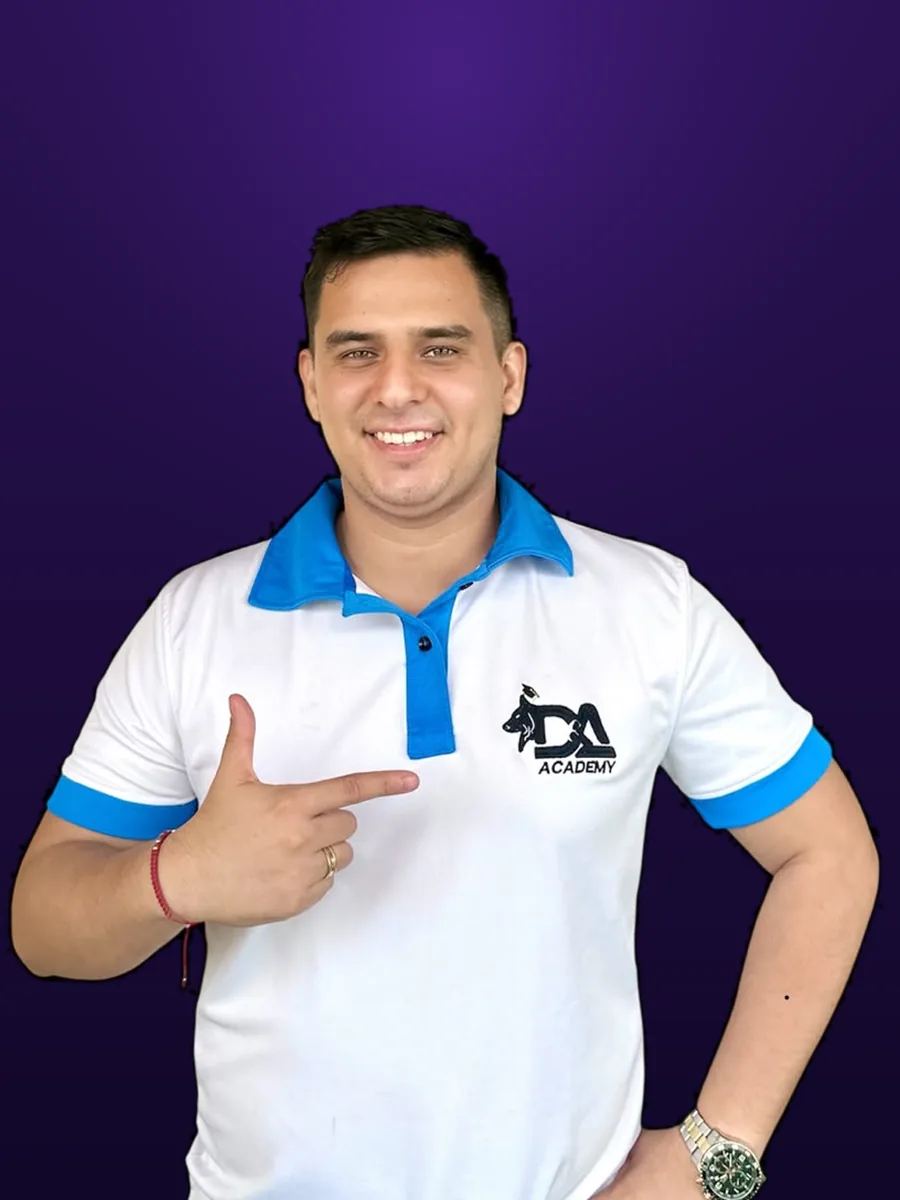
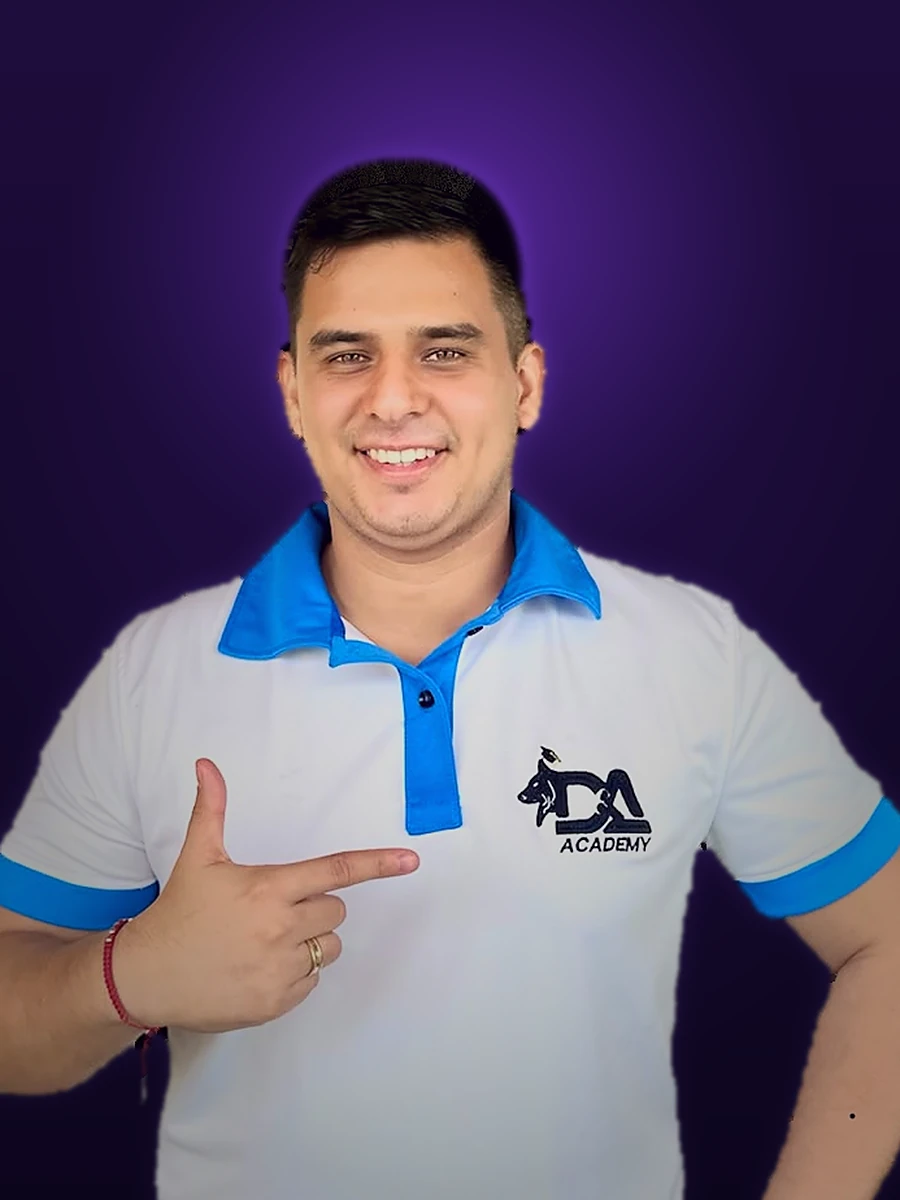
update: cambios del sitio Labs Summit

diff --git a/speakers.html b/speakers.html
@@ -39,7 +39,7 @@ s.parentNode.insertBefore(t,s)}(window, document,'script','https://connect.faceb
 fbq('init', '481397476029941');
 fbq('track', 'PageView');
 </script>
-<script type="application/ld+json">{"@context": "https://schema.org", "@type": "Event", "name": "Labs Summit 2026 · Día de conferencias", "startDate": "2026-10-29", "endDate": "2026-10-29", "eventStatus": "https://schema.org/EventScheduled", "eventAttendanceMode": "https://schema.org/OfflineEventAttendanceMode", "location": {"@type": "Place", "name": "Coliseo de Ferias Manuel Victoria Rojas", "address": {"@type": "PostalAddress", "addressLocality": "Tuluá", "addressRegion": "Valle del Cauca", "addressCountry": "CO"}}, "image": "https://labssummit.com/bannerInferior/speakers-og.jpg", "url": "https://labssummit.com/speakers", "organizer": {"@type": "Organization", "name": "Labs Summit", "url": "https://labssummit.com"}, "performer": [{"@type": "Person", "name": "Juan David Carmona", "jobTitle": "Cofundador · Grupo Effi", "image": "https://labssummit.com/speakers/opt/juan-david-carmona-900.webp"}, {"@type": "Person", "name": "Sara Montoya", "jobTitle": "Cofundadora · Grupo Effi", "image": "https://labssummit.com/speakers/opt/sara-montoya-900.webp"}, {"@type": "Person", "name": "Jose Aguirre", "jobTitle": "Fundador · TechnoLabs", "image": "https://labssummit.com/speakers/opt/jose-aguirre-900.webp"}, {"@type": "Person", "name": "Laura Aguirre", "jobTitle": "Emprendedora · Tech & Ventures", "image": "https://labssummit.com/speakers/opt/laura-aguirre-900.webp"}, {"@type": "Person", "name": "Juan Camilo Silva", "jobTitle": "Cofundador · Lucid Bot", "image": "https://labssummit.com/speakers/opt/juan-camilo-silva-900.webp"}, {"@type": "Person", "name": "Camila Rodríguez", "jobTitle": "Abogada · Prop. Intelectual", "image": "https://labssummit.com/speakers/opt/camila-rodriguez-900.webp"}, {"@type": "Person", "name": "Melisa Parra", "jobTitle": "Alianzas & Eventos · Tiendanube", "image": "https://labssummit.com/speakers/opt/melisa-parra-900.webp"}, {"@type": "Person", "name": "Miguel Buitrago", "jobTitle": "Máster PNL · Ventas Online", "image": "https://labssummit.com/speakers/opt/miguel-buitrago-900.webp"}, {"@type": "Person", "name": "Juan Vargas", "jobTitle": "Cofundador · Dropkiller", "image": "https://labssummit.com/speakers/opt/juan-vargas-900.webp"}, {"@type": "Person", "name": "Kenny Barrios Jure", "jobTitle": "Partner Empresarial · @kennypartner", "image": "https://labssummit.com/speakers/opt/kenny-barrios-jure-900.webp"}, {"@type": "Person", "name": "Faider Altamar", "jobTitle": "CEO · Negocios Digitales", "image": "https://labssummit.com/speakers/opt/faider-altamar-900.webp"}, {"@type": "Person", "name": "Mike Munzvil", "jobTitle": "Estrategia · IA · eCommerce", "image": "https://labssummit.com/speakers/opt/mike-munzvil-900.webp"}, {"@type": "Person", "name": "Cristóbal Verasaluse", "jobTitle": "Hotmart Black · Club de Resultados", "image": "https://labssummit.com/speakers/opt/cristobal-verasaluse-900.webp"}, {"@type": "Person", "name": "Mateo Costa", "jobTitle": "CEO · ConvertMate", "image": "https://labssummit.com/speakers/opt/mateo-costa-900.webp"}, {"@type": "Person", "name": "María José Echeverri", "jobTitle": "Fundadora · Colombia Tech Week", "image": "https://labssummit.com/speakers/opt/maria-jose-echeverri-900.webp"}, {"@type": "Person", "name": "Víctor Heras", "jobTitle": "Fundador · HerasMedia", "image": "https://labssummit.com/speakers/opt/victor-heras-900.webp"}, {"@type": "Person", "name": "Teo Giraldo", "jobTitle": "Fundador · Make Online Money", "image": "https://labssummit.com/speakers/opt/teo-giraldo-900.webp"}, {"@type": "Person", "name": "Juan Martinez", "jobTitle": "Fundador · Prosox", "image": "https://labssummit.com/speakers/opt/juan-martinez-900.webp"}, {"@type": "Person", "name": "Julián Lago", "jobTitle": "Senior Regional GM · Rappi", "image": "https://labssummit.com/speakers/opt/julian-lago-900.webp"}, {"@type": "Person", "name": "Diego Patarroyo", "jobTitle": "Co-fundador · D&A Grupo Empresarial", "image": "https://labssummit.com/speakers/opt/diego-patarroyo-900.webp"}, {"@type": "Person", "name": "Andrés Patarroyo", "jobTitle": "Co-fundador · D&A Grupo Empresarial", "image": "https://labssummit.com/speakers/opt/andres-patarroyo-900.webp"}, {"@type": "Person", "name": "Mateo Vera", "jobTitle": "CEO · FEM Probiotics", "image": "https://labssummit.com/speakers/opt/mateo-vera-900.webp"}, {"@type": "Person", "name": "Alejandro Vela", "jobTitle": "Emprendedor · +30.000 clientes", "image": "https://labssummit.com/speakers/opt/alejandro-vela-900.webp"}]}</script>
+<script type="application/ld+json">{"@context": "https://schema.org", "@type": "Event", "name": "Labs Summit 2026 · Día de conferencias", "startDate": "2026-10-29", "endDate": "2026-10-29", "eventStatus": "https://schema.org/EventScheduled", "eventAttendanceMode": "https://schema.org/OfflineEventAttendanceMode", "location": {"@type": "Place", "name": "Coliseo de Ferias Manuel Victoria Rojas", "address": {"@type": "PostalAddress", "addressLocality": "Tuluá", "addressRegion": "Valle del Cauca", "addressCountry": "CO"}}, "image": "https://labssummit.com/bannerInferior/speakers-og.jpg", "url": "https://labssummit.com/speakers", "organizer": {"@type": "Organization", "name": "Labs Summit", "url": "https://labssummit.com"}, "performer": [{"@type": "Person", "name": "Juan David Carmona", "jobTitle": "Cofundador · Grupo Effi", "image": "https://labssummit.com/speakers/opt/juan-david-carmona-900.webp"}, {"@type": "Person", "name": "Sara Montoya", "jobTitle": "Cofundadora · Grupo Effi", "image": "https://labssummit.com/speakers/opt/sara-montoya-900.webp"}, {"@type": "Person", "name": "Jose Aguirre", "jobTitle": "Fundador · TechnoLabs", "image": "https://labssummit.com/speakers/opt/jose-aguirre-900.webp"}, {"@type": "Person", "name": "Laura Aguirre", "jobTitle": "Emprendedora · Tech & Ventures", "image": "https://labssummit.com/speakers/opt/laura-aguirre-900.webp"}, {"@type": "Person", "name": "Juan Camilo Silva", "jobTitle": "Cofundador · Lucid Bot", "image": "https://labssummit.com/speakers/opt/juan-camilo-silva-900.webp"}, {"@type": "Person", "name": "Camila Rodríguez", "jobTitle": "Abogada · Prop. Intelectual", "image": "https://labssummit.com/speakers/opt/camila-rodriguez-900.webp"}, {"@type": "Person", "name": "Melisa Parra", "jobTitle": "Alianzas & Eventos · Tiendanube", "image": "https://labssummit.com/speakers/opt/melisa-parra-900.webp"}, {"@type": "Person", "name": "Miguel Buitrago", "jobTitle": "Máster PNL · Ventas Online", "image": "https://labssummit.com/speakers/opt/miguel-buitrago-900.webp"}, {"@type": "Person", "name": "Juan Vargas", "jobTitle": "Cofundador · Dropkiller", "image": "https://labssummit.com/speakers/opt/juan-vargas-900.webp"}, {"@type": "Person", "name": "Kenny Barrios Jure", "jobTitle": "Partner Empresarial · @kennypartner", "image": "https://labssummit.com/speakers/opt/kenny-barrios-jure-900.webp"}, {"@type": "Person", "name": "Faider Altamar", "jobTitle": "CEO · Negocios Digitales", "image": "https://labssummit.com/speakers/opt/faider-altamar-900.webp"}, {"@type": "Person", "name": "Mike Munzvil", "jobTitle": "Estrategia · IA · eCommerce", "image": "https://labssummit.com/speakers/opt/mike-munzvil-900.webp"}, {"@type": "Person", "name": "Cristóbal Verasaluse", "jobTitle": "Hotmart Black · Club de Resultados", "image": "https://labssummit.com/speakers/opt/cristobal-verasaluse-900.webp"}, {"@type": "Person", "name": "Mateo Costa", "jobTitle": "CEO · ConvertMate", "image": "https://labssummit.com/speakers/opt/mateo-costa-900.webp"}, {"@type": "Person", "name": "María José Echeverri", "jobTitle": "Fundadora · Colombia Tech Week", "image": "https://labssummit.com/speakers/opt/maria-jose-echeverri-900.webp"}, {"@type": "Person", "name": "Víctor Heras", "jobTitle": "Fundador · HerasMedia", "image": "https://labssummit.com/speakers/opt/victor-heras-900.webp"}, {"@type": "Person", "name": "Teo Giraldo", "jobTitle": "Fundador · Make Online Money", "image": "https://labssummit.com/speakers/opt/teo-giraldo-900.webp"}, {"@type": "Person", "name": "Juan Martinez", "jobTitle": "Fundador · Prosox", "image": "https://labssummit.com/speakers/opt/juan-martinez-900.webp"}, {"@type": "Person", "name": "Julián Lago", "jobTitle": "Senior Regional GM · Rappi", "image": "https://labssummit.com/speakers/opt/julian-lago-900.webp"}, {"@type": "Person", "name": "Diego Patarroyo", "jobTitle": "Co-fundador · D&A Grupo Empresarial", "image": "https://labssummit.com/speakers/opt/diego-patarroyo-900.webp?v=6"}, {"@type": "Person", "name": "Andrés Patarroyo", "jobTitle": "Co-fundador · D&A Grupo Empresarial", "image": "https://labssummit.com/speakers/opt/andres-patarroyo-900.webp?v=6"}, {"@type": "Person", "name": "Mateo Vera", "jobTitle": "CEO · FEM Probiotics", "image": "https://labssummit.com/speakers/opt/mateo-vera-900.webp"}, {"@type": "Person", "name": "Alejandro Vela", "jobTitle": "Emprendedor · +30.000 clientes", "image": "https://labssummit.com/speakers/opt/alejandro-vela-900.webp"}]}</script>
 <style>
 :root{
   --fondo:#07020F;--panel:#0F0620;--panel2:#160A2C;--texto:#F4EEFF;--suave:#C9AEFF;--tenue:rgba(201,174,255,.62);
@@ -570,7 +570,7 @@ footer a{color:rgba(201,174,255,.8)}
       </li>
       <li class="card" style="--i:3" data-slug="diego-patarroyo" data-grupos="marketing tech" data-busca="diego patarroyo co-fundador  d&amp;a grupo empresarial web &amp; seo seo desarrollo web formacion">
         <button class="card-btn" type="button" data-abrir="19" aria-label="Ver el perfil de Diego Patarroyo">
-          <span class="card-foto"><picture><source type="image/webp" srcset="/speakers/opt/diego-patarroyo-480.webp 480w, /speakers/opt/diego-patarroyo-900.webp 900w" sizes="(max-width: 760px) 46vw, (max-width: 1100px) 31vw, 290px"><img class="card-img" src="/speakers/opt/diego-patarroyo.jpg" alt="" width="480" height="640" loading="lazy" decoding="async"></picture></span>
+          <span class="card-foto"><picture><source type="image/webp" srcset="/speakers/opt/diego-patarroyo-480.webp?v=6 480w, /speakers/opt/diego-patarroyo-900.webp?v=6 900w" sizes="(max-width: 760px) 46vw, (max-width: 1100px) 31vw, 290px"><img class="card-img" src="/speakers/opt/diego-patarroyo.jpg?v=6" alt="" width="480" height="640" loading="lazy" decoding="async"></picture></span>
           <span class="card-sombra" aria-hidden="true"></span>
           <span class="card-tag"><span aria-hidden="true">💻</span>Web &amp; SEO</span>
           <span class="card-ls" aria-hidden="true">LS</span>
@@ -584,7 +584,7 @@ footer a{color:rgba(201,174,255,.8)}
       </li>
       <li class="card" style="--i:4" data-slug="andres-patarroyo" data-grupos="ecommerce marketing" data-busca="andres patarroyo co-fundador  d&amp;a grupo empresarial meta ads &amp; ecommerce meta ads ecommerce analitica">
         <button class="card-btn" type="button" data-abrir="20" aria-label="Ver el perfil de Andrés Patarroyo">
-          <span class="card-foto"><picture><source type="image/webp" srcset="/speakers/opt/andres-patarroyo-480.webp 480w, /speakers/opt/andres-patarroyo-900.webp 900w" sizes="(max-width: 760px) 46vw, (max-width: 1100px) 31vw, 290px"><img class="card-img" src="/speakers/opt/andres-patarroyo.jpg" alt="" width="480" height="640" loading="lazy" decoding="async"></picture></span>
+          <span class="card-foto"><picture><source type="image/webp" srcset="/speakers/opt/andres-patarroyo-480.webp?v=6 480w, /speakers/opt/andres-patarroyo-900.webp?v=6 900w" sizes="(max-width: 760px) 46vw, (max-width: 1100px) 31vw, 290px"><img class="card-img" src="/speakers/opt/andres-patarroyo.jpg?v=6" alt="" width="480" height="640" loading="lazy" decoding="async"></picture></span>
           <span class="card-sombra" aria-hidden="true"></span>
           <span class="card-tag"><span aria-hidden="true">📈</span>Meta Ads &amp; eCommerce</span>
           <span class="card-ls" aria-hidden="true">LS</span>
@@ -683,7 +683,7 @@ footer a{color:rgba(201,174,255,.8)}
 </div>
 <div class="aviso" id="aviso" role="status"></div>
 
-<script type="application/json" id="datos-speakers">[{"slug": "juan-david-carmona", "nombre": "Juan David Carmona", "nombreLargo": "Juan David Carmona", "rol": "Cofundador · Grupo Effi", "cat": "Ecommerce", "emoji": "🛒", "bio": "Cofundador de @grupoeffi, fundador de la @feriaeffix y referente digital colombiano que ha construido una comunidad sólida desde la autenticidad, conectando con millones a través de historias reales y experiencias de vida.", "temas": ["Ecommerce", "IA Aplicada", "Escala Digital"], "fb": "/speakers/opt/juan-david-carmona.png"}, {"slug": "sara-montoya", "nombre": "Sara Montoya", "nombreLargo": "Sara Montoya", "rol": "Cofundadora · Grupo Effi", "cat": "Marketing Digital", "emoji": "📱", "bio": "Cofundadora de @grupoeffi, fundadora de @feriaeffix y referente digital que ha construido una comunidad desde la autenticidad, compartiendo su estilo de vida y una visión cercana de lo que significa crecer en el mundo digital.", "temas": ["Marketing Digital", "Marca Personal", "Comunidad"], "fb": "/speakers/opt/sara-montoya.png"}, {"slug": "jose-aguirre", "nombre": "Jose Aguirre", "nombreLargo": "Jose Aguirre", "rol": "Fundador · TechnoLabs", "cat": "Emprendimiento", "emoji": "🚀", "bio": "Fundador de @technolabs, @labssummit y @mastercommerce. Emprendedor digital y creador de contenido que ha inspirado a miles de personas a construir oportunidades reales a través del mundo digital.", "temas": ["Ventas Digitales", "Automatización", "IA Comercial"], "fb": "/speakers/opt/jose-aguirre.png"}, {"slug": "laura-aguirre", "nombre": "Laura Aguirre", "nombreLargo": "Laura Aguirre", "rol": "Emprendedora · Tech & Ventures", "cat": "Tech & Ventures", "emoji": "💡", "bio": "Emprendedora del ecosistema tech colombiano, con trayectoria en el desarrollo de negocios digitales y comunidades de innovación.", "temas": ["Emprendimiento", "Ecosistema Tech"], "fb": "/speakers/opt/laura-aguirre.png"}, {"slug": "juan-camilo-silva", "nombre": "Juan Camilo Silva", "nombreLargo": "Juan Camilo Silva", "rol": "Cofundador · Lucid Bot", "cat": "IA & Ventas", "emoji": "🤖", "bio": "Cofundador de Lucid Bot, especialista en ventas conversacionales para ecommerce. Automatiza ventas, atención y seguimiento con agentes de IA en WhatsApp, Instagram, Facebook, TikTok y Webchat.", "temas": ["IA", "Ventas Conversacionales", "E-commerce"], "fb": "/speakers/opt/juan-camilo-silva.png"}, {"slug": "camila-rodriguez", "nombre": "Camila Rodríguez", "nombreLargo": "Camila Rodríguez", "rol": "Abogada · Prop. Intelectual", "cat": "Legal & Negocios", "emoji": "⚖", "bio": "Abogada con +7 años en propiedad intelectual y derecho empresarial. Directora de su propio despacho, ha asesorado a +100 marcas. COO en promotora de música electrónica y conferencista en PI y negocios digitales.", "temas": ["Propiedad Intelectual", "Derecho Empresarial", "Marcas"], "fb": "/speakers/opt/camila-rodriguez.png"}, {"slug": "melisa-parra", "nombre": "Melisa Parra", "nombreLargo": "Melisa Parra", "rol": "Alianzas & Eventos · Tiendanube", "cat": "eCommerce", "emoji": "🛍", "bio": "+7 años en el ecosistema emprendedor latinoamericano, experta en eCommerce, marketing digital y construcción de marca. Lidera alianzas y eventos de Tiendanube en Colombia y Chile, una de las plataformas de eCommerce más grandes de LATAM.", "temas": ["eCommerce", "Marketing Digital", "Tiendanube"], "fb": "/speakers/opt/melisa-parra.png"}, {"slug": "miguel-buitrago", "nombre": "Miguel Buitrago", "nombreLargo": "Miguel Buitrago", "rol": "Máster PNL · Ventas Online", "cat": "Mentalidad", "emoji": "🧠", "bio": "Estratega de venta directa online, Máster en PNL y creador de una empresa de +7 cifras al año, impactando a más de 20.000 alumnos. Entiende cómo la mentalidad, las decisiones y la programación mental impulsan directamente el crecimiento de un negocio.", "temas": ["Mentalidad", "Neurolingüística", "Ventas Online"], "fb": "/speakers/opt/miguel-buitrago.png"}, {"slug": "juan-vargas", "nombre": "Juan Vargas", "nombreLargo": "Juan Vargas", "rol": "Cofundador · Dropkiller", "cat": "Dropshipping", "emoji": "📦", "bio": "Emprendedor de 22 años, cofundador de Dropkiller, la plataforma líder de investigación de productos para dropshippers en LATAM. +$2M USD facturados con sus tiendas online y cientos de personas iniciadas en la venta de productos físicos.", "temas": ["Dropshipping", "E-commerce", "LATAM"], "fb": "/speakers/opt/juan-vargas.png"}, {"slug": "kenny-barrios-jure", "nombre": "Kenny Barrios Jure", "nombreLargo": "Kenny Barrios Jure", "rol": "Partner Empresarial · @kennypartner", "cat": "Partner Digital", "emoji": "🤝", "bio": "Fundador de Kenny&Co SAS. 12 años como empresario, 9 en estrategia digital y +$1.6M USD facturados. Factura $20K–$30K USD/mes con +80% de rentabilidad, sin empleados en nómina. Meta Business Partner certificado, acompaña a +390 partners activos. Su filosofía: \"Primero práctico, luego replico.\"", "temas": ["Partner Digital", "Marketing en Redes", "Negocios LATAM"], "fb": "/speakers/opt/kenny-barrios-jure.jpg"}, {"slug": "faider-altamar", "nombre": "Faider Altamar", "nombreLargo": "Faider Altamar", "rol": "CEO · Negocios Digitales", "cat": "IA & Ecommerce", "emoji": "🤖", "bio": "Mentor en negocios digitales, Ecommerce, SaaS e IA. CEO de proyectos escalables y creador de comunidades de crecimiento.", "temas": ["Ecommerce", "SaaS", "IA"], "fb": "/speakers/opt/faider-altamar.png"}, {"slug": "mike-munzvil", "nombre": "Mike Munzvil", "nombreLargo": "Mike Munzvil", "rol": "Estrategia · IA · eCommerce", "cat": "Negocios Digitales", "emoji": "🚀", "bio": "Referente en negocios digitales en Latinoamérica. Experto en estrategias de crecimiento, Inteligencia Artificial y eCommerce.", "temas": ["IA", "eCommerce", "Crecimiento"], "fb": "/speakers/opt/mike-munzvil.png"}, {"slug": "cristobal-verasaluse", "nombre": "Cristóbal Verasaluse", "nombreLargo": "Cristóbal Verasaluse", "rol": "Hotmart Black · Club de Resultados", "cat": "Resultados", "emoji": "📚", "bio": "Formador de alto impacto, Hotmart Black con +$500K USD facturados y más de 1.700 libros leídos. Ha impactado a +100.000 personas ayudándolas a pasar de consumir información sin propósito a generar resultados transformadores.", "temas": ["Aprendizaje Aplicado", "Resultados", "Hotmart"], "fb": "/speakers/opt/cristobal-verasaluse.png"}, {"slug": "mateo-costa", "nombre": "Mateo Costa", "nombreLargo": "Mateo Costa", "rol": "CEO · ConvertMate", "cat": "CRO & Conversión", "emoji": "📈", "bio": "CEO de ConvertMate, la agencia de optimización de conversiones (CRO) #1 para marcas DTC en LATAM. Convierte visitas ya pagadas en más ventas sin invertir en pauta adicional. +100 marcas, 137 proyectos y +40M USD desbloqueados en LATAM, USA y EU.", "temas": ["CRO", "Ecommerce DTC", "Conversiones"], "fb": "/speakers/opt/mateo-costa.png"}, {"slug": "maria-jose-echeverri", "nombre": "María José Echeverri", "nombreLargo": "María José Echeverri", "rol": "Fundadora · Colombia Tech Week", "cat": "Tech & Innovación", "emoji": "⚖", "bio": "Abogada especialista en innovación y ecosistemas emprendedores en LATAM. Fundadora de Colombia Tech Week, Tech Fest, AI Summit y Latam at Silicon Valley. Referente en articulación público-privada y atracción de inversión internacional para el sector tech.", "temas": ["Innovación", "Ecosistemas Tech", "Inversión"], "fb": "/speakers/opt/maria-jose-echeverri.png"}, {"slug": "victor-heras", "nombre": "Víctor Heras", "nombreLargo": "Víctor Heras", "rol": "Fundador · HerasMedia", "cat": "Marca Personal", "emoji": "🚀", "bio": "Fundador de HerasMedia y Personal Branding University. Experto en crecimiento orgánico en redes sociales: lleva cuentas de 0 a 1M de seguidores. +7M EUR generados para sus clientes, +1B de vistas y más de 1.000 emprendedores formados en el mundo hispanohablante.", "temas": ["Marca Personal", "Crecimiento Orgánico", "Redes Sociales"], "fb": "/speakers/opt/victor-heras.png"}, {"slug": "teo-giraldo", "nombre": "Teo Giraldo", "nombreLargo": "Teo Giraldo", "rol": "Fundador · Make Online Money", "cat": "eCommerce", "emoji": "🛒", "bio": "Fundador de Make Online Money y creador de contenido sobre eCommerce y dropshipping. Ha construido una comunidad de +2.000 miembros donde enseña a crear y escalar negocios digitales. Comparte estrategias prácticas en YouTube basadas en su experiencia real, con foco en el entrenamiento mental para construir a largo plazo.", "temas": ["Dropshipping", "eCommerce", "Mentalidad"], "fb": "/speakers/opt/teo-giraldo.png"}, {"slug": "juan-martinez", "nombre": "Juan Martinez", "nombreLargo": "Juan Martinez", "rol": "Fundador · Prosox", "cat": "eCommerce & Marca", "emoji": "⚽", "bio": "6 años en ecommerce. Fundador de Prosox, la marca más grande relacionada con el fútbol en Colombia. Empezó con $60 USD y facturó aprox. $5M USD en LATAM el año pasado. Primer y único ecommerce en patrocinar un equipo de fútbol profesional en Colombia.", "temas": ["eCommerce", "Marca Deportiva", "Escala"], "fb": "/speakers/opt/juan-martinez.png"}, {"slug": "julian-lago", "nombre": "Julián Lago", "nombreLargo": "Julián Lago", "rol": "Senior Regional GM · Rappi", "cat": "Tech & Consumo", "emoji": "🛵", "bio": "Senior Regional General Manager de Rappi para el suroccidente de Colombia y Norte de Santander. +11 años en tecnología y consumo masivo liderando equipos y operaciones en LATAM. Ha trabajado con Honor, Marlboro, IQOS y Rappi. Ingeniero Industrial (ICESI) y MBA (Universidad de los Andes).", "temas": ["Tech", "Operaciones", "LATAM"], "fb": "/speakers/opt/julian-lago.jpg"}, {"slug": "diego-patarroyo", "nombre": "Diego Patarroyo", "nombreLargo": "Diego M. Patarroyo", "rol": "Co-fundador · D&A Grupo Empresarial", "cat": "Web & SEO", "emoji": "💻", "bio": "Ingeniero Electrónico y candidato a Magíster en Administración de Empresas (VIU). Co-fundador de D&A Grupo Empresarial y especialista en desarrollo web y SEO. Ha formado a miles de estudiantes en la creación de sitios web y plataformas de alta conversión.", "temas": ["SEO", "Desarrollo Web", "Formación"], "fb": "/speakers/opt/diego-patarroyo.jpg"}, {"slug": "andres-patarroyo", "nombre": "Andrés Patarroyo", "nombreLargo": "Andrés F. Patarroyo", "rol": "Co-fundador · D&A Grupo Empresarial", "cat": "Meta Ads & eCommerce", "emoji": "📈", "bio": "Ingeniero Civil y candidato a Magíster en Marketing Digital y Analítica Web (VIU). Co-fundador de D&A Grupo Empresarial y especialista en Meta Ads y E-commerce. Ha ayudado a miles de estudiantes a superar $900 millones en facturación acumulada.", "temas": ["Meta Ads", "eCommerce", "Analítica"], "fb": "/speakers/opt/andres-patarroyo.jpg"}, {"slug": "mateo-vera", "nombre": "Mateo Vera", "nombreLargo": "Mateo Vera", "rol": "CEO · FEM Probiotics", "cat": "eCommerce & Retención", "emoji": "💊", "bio": "Experto en eCommerce con +5 años construyendo y escalando marcas de consumo en el nicho de suplementos. CEO y fundador de FEM Probiotics, Focus Supplements (Colombia) y Opthera (EE.UU.). Especialista en marketing de retención: suscripciones, email marketing, CRM y fidelización para maximizar el LTV.", "temas": ["Retención", "Suscripciones", "LTV"], "fb": "/speakers/opt/mateo-vera.jpg"}, {"slug": "alejandro-vela", "nombre": "Alejandro Vela", "nombreLargo": "Alejandro Vela", "rol": "Emprendedor · +30.000 clientes", "cat": "Emprendimiento", "emoji": "🤝", "bio": "Emprendedor que ha construido una base de más de 30.000 clientes satisfechos. Llega a Labs Summit a compartir cómo se crece a ese volumen sin perder la calidad del servicio, y las lecciones prácticas que deja escalar un negocio de cara al cliente.", "temas": ["Emprendimiento", "Clientes", "Escala"], "fb": "/speakers/opt/alejandro-vela.jpg"}]</script>
+<script type="application/json" id="datos-speakers">[{"slug": "juan-david-carmona", "nombre": "Juan David Carmona", "nombreLargo": "Juan David Carmona", "rol": "Cofundador · Grupo Effi", "cat": "Ecommerce", "emoji": "🛒", "bio": "Cofundador de @grupoeffi, fundador de la @feriaeffix y referente digital colombiano que ha construido una comunidad sólida desde la autenticidad, conectando con millones a través de historias reales y experiencias de vida.", "temas": ["Ecommerce", "IA Aplicada", "Escala Digital"], "fb": "/speakers/opt/juan-david-carmona.png"}, {"slug": "sara-montoya", "nombre": "Sara Montoya", "nombreLargo": "Sara Montoya", "rol": "Cofundadora · Grupo Effi", "cat": "Marketing Digital", "emoji": "📱", "bio": "Cofundadora de @grupoeffi, fundadora de @feriaeffix y referente digital que ha construido una comunidad desde la autenticidad, compartiendo su estilo de vida y una visión cercana de lo que significa crecer en el mundo digital.", "temas": ["Marketing Digital", "Marca Personal", "Comunidad"], "fb": "/speakers/opt/sara-montoya.png"}, {"slug": "jose-aguirre", "nombre": "Jose Aguirre", "nombreLargo": "Jose Aguirre", "rol": "Fundador · TechnoLabs", "cat": "Emprendimiento", "emoji": "🚀", "bio": "Fundador de @technolabs, @labssummit y @mastercommerce. Emprendedor digital y creador de contenido que ha inspirado a miles de personas a construir oportunidades reales a través del mundo digital.", "temas": ["Ventas Digitales", "Automatización", "IA Comercial"], "fb": "/speakers/opt/jose-aguirre.png"}, {"slug": "laura-aguirre", "nombre": "Laura Aguirre", "nombreLargo": "Laura Aguirre", "rol": "Emprendedora · Tech & Ventures", "cat": "Tech & Ventures", "emoji": "💡", "bio": "Emprendedora del ecosistema tech colombiano, con trayectoria en el desarrollo de negocios digitales y comunidades de innovación.", "temas": ["Emprendimiento", "Ecosistema Tech"], "fb": "/speakers/opt/laura-aguirre.png"}, {"slug": "juan-camilo-silva", "nombre": "Juan Camilo Silva", "nombreLargo": "Juan Camilo Silva", "rol": "Cofundador · Lucid Bot", "cat": "IA & Ventas", "emoji": "🤖", "bio": "Cofundador de Lucid Bot, especialista en ventas conversacionales para ecommerce. Automatiza ventas, atención y seguimiento con agentes de IA en WhatsApp, Instagram, Facebook, TikTok y Webchat.", "temas": ["IA", "Ventas Conversacionales", "E-commerce"], "fb": "/speakers/opt/juan-camilo-silva.png"}, {"slug": "camila-rodriguez", "nombre": "Camila Rodríguez", "nombreLargo": "Camila Rodríguez", "rol": "Abogada · Prop. Intelectual", "cat": "Legal & Negocios", "emoji": "⚖", "bio": "Abogada con +7 años en propiedad intelectual y derecho empresarial. Directora de su propio despacho, ha asesorado a +100 marcas. COO en promotora de música electrónica y conferencista en PI y negocios digitales.", "temas": ["Propiedad Intelectual", "Derecho Empresarial", "Marcas"], "fb": "/speakers/opt/camila-rodriguez.png"}, {"slug": "melisa-parra", "nombre": "Melisa Parra", "nombreLargo": "Melisa Parra", "rol": "Alianzas & Eventos · Tiendanube", "cat": "eCommerce", "emoji": "🛍", "bio": "+7 años en el ecosistema emprendedor latinoamericano, experta en eCommerce, marketing digital y construcción de marca. Lidera alianzas y eventos de Tiendanube en Colombia y Chile, una de las plataformas de eCommerce más grandes de LATAM.", "temas": ["eCommerce", "Marketing Digital", "Tiendanube"], "fb": "/speakers/opt/melisa-parra.png"}, {"slug": "miguel-buitrago", "nombre": "Miguel Buitrago", "nombreLargo": "Miguel Buitrago", "rol": "Máster PNL · Ventas Online", "cat": "Mentalidad", "emoji": "🧠", "bio": "Estratega de venta directa online, Máster en PNL y creador de una empresa de +7 cifras al año, impactando a más de 20.000 alumnos. Entiende cómo la mentalidad, las decisiones y la programación mental impulsan directamente el crecimiento de un negocio.", "temas": ["Mentalidad", "Neurolingüística", "Ventas Online"], "fb": "/speakers/opt/miguel-buitrago.png"}, {"slug": "juan-vargas", "nombre": "Juan Vargas", "nombreLargo": "Juan Vargas", "rol": "Cofundador · Dropkiller", "cat": "Dropshipping", "emoji": "📦", "bio": "Emprendedor de 22 años, cofundador de Dropkiller, la plataforma líder de investigación de productos para dropshippers en LATAM. +$2M USD facturados con sus tiendas online y cientos de personas iniciadas en la venta de productos físicos.", "temas": ["Dropshipping", "E-commerce", "LATAM"], "fb": "/speakers/opt/juan-vargas.png"}, {"slug": "kenny-barrios-jure", "nombre": "Kenny Barrios Jure", "nombreLargo": "Kenny Barrios Jure", "rol": "Partner Empresarial · @kennypartner", "cat": "Partner Digital", "emoji": "🤝", "bio": "Fundador de Kenny&Co SAS. 12 años como empresario, 9 en estrategia digital y +$1.6M USD facturados. Factura $20K–$30K USD/mes con +80% de rentabilidad, sin empleados en nómina. Meta Business Partner certificado, acompaña a +390 partners activos. Su filosofía: \"Primero práctico, luego replico.\"", "temas": ["Partner Digital", "Marketing en Redes", "Negocios LATAM"], "fb": "/speakers/opt/kenny-barrios-jure.jpg"}, {"slug": "faider-altamar", "nombre": "Faider Altamar", "nombreLargo": "Faider Altamar", "rol": "CEO · Negocios Digitales", "cat": "IA & Ecommerce", "emoji": "🤖", "bio": "Mentor en negocios digitales, Ecommerce, SaaS e IA. CEO de proyectos escalables y creador de comunidades de crecimiento.", "temas": ["Ecommerce", "SaaS", "IA"], "fb": "/speakers/opt/faider-altamar.png"}, {"slug": "mike-munzvil", "nombre": "Mike Munzvil", "nombreLargo": "Mike Munzvil", "rol": "Estrategia · IA · eCommerce", "cat": "Negocios Digitales", "emoji": "🚀", "bio": "Referente en negocios digitales en Latinoamérica. Experto en estrategias de crecimiento, Inteligencia Artificial y eCommerce.", "temas": ["IA", "eCommerce", "Crecimiento"], "fb": "/speakers/opt/mike-munzvil.png"}, {"slug": "cristobal-verasaluse", "nombre": "Cristóbal Verasaluse", "nombreLargo": "Cristóbal Verasaluse", "rol": "Hotmart Black · Club de Resultados", "cat": "Resultados", "emoji": "📚", "bio": "Formador de alto impacto, Hotmart Black con +$500K USD facturados y más de 1.700 libros leídos. Ha impactado a +100.000 personas ayudándolas a pasar de consumir información sin propósito a generar resultados transformadores.", "temas": ["Aprendizaje Aplicado", "Resultados", "Hotmart"], "fb": "/speakers/opt/cristobal-verasaluse.png"}, {"slug": "mateo-costa", "nombre": "Mateo Costa", "nombreLargo": "Mateo Costa", "rol": "CEO · ConvertMate", "cat": "CRO & Conversión", "emoji": "📈", "bio": "CEO de ConvertMate, la agencia de optimización de conversiones (CRO) #1 para marcas DTC en LATAM. Convierte visitas ya pagadas en más ventas sin invertir en pauta adicional. +100 marcas, 137 proyectos y +40M USD desbloqueados en LATAM, USA y EU.", "temas": ["CRO", "Ecommerce DTC", "Conversiones"], "fb": "/speakers/opt/mateo-costa.png"}, {"slug": "maria-jose-echeverri", "nombre": "María José Echeverri", "nombreLargo": "María José Echeverri", "rol": "Fundadora · Colombia Tech Week", "cat": "Tech & Innovación", "emoji": "⚖", "bio": "Abogada especialista en innovación y ecosistemas emprendedores en LATAM. Fundadora de Colombia Tech Week, Tech Fest, AI Summit y Latam at Silicon Valley. Referente en articulación público-privada y atracción de inversión internacional para el sector tech.", "temas": ["Innovación", "Ecosistemas Tech", "Inversión"], "fb": "/speakers/opt/maria-jose-echeverri.png"}, {"slug": "victor-heras", "nombre": "Víctor Heras", "nombreLargo": "Víctor Heras", "rol": "Fundador · HerasMedia", "cat": "Marca Personal", "emoji": "🚀", "bio": "Fundador de HerasMedia y Personal Branding University. Experto en crecimiento orgánico en redes sociales: lleva cuentas de 0 a 1M de seguidores. +7M EUR generados para sus clientes, +1B de vistas y más de 1.000 emprendedores formados en el mundo hispanohablante.", "temas": ["Marca Personal", "Crecimiento Orgánico", "Redes Sociales"], "fb": "/speakers/opt/victor-heras.png"}, {"slug": "teo-giraldo", "nombre": "Teo Giraldo", "nombreLargo": "Teo Giraldo", "rol": "Fundador · Make Online Money", "cat": "eCommerce", "emoji": "🛒", "bio": "Fundador de Make Online Money y creador de contenido sobre eCommerce y dropshipping. Ha construido una comunidad de +2.000 miembros donde enseña a crear y escalar negocios digitales. Comparte estrategias prácticas en YouTube basadas en su experiencia real, con foco en el entrenamiento mental para construir a largo plazo.", "temas": ["Dropshipping", "eCommerce", "Mentalidad"], "fb": "/speakers/opt/teo-giraldo.png"}, {"slug": "juan-martinez", "nombre": "Juan Martinez", "nombreLargo": "Juan Martinez", "rol": "Fundador · Prosox", "cat": "eCommerce & Marca", "emoji": "⚽", "bio": "6 años en ecommerce. Fundador de Prosox, la marca más grande relacionada con el fútbol en Colombia. Empezó con $60 USD y facturó aprox. $5M USD en LATAM el año pasado. Primer y único ecommerce en patrocinar un equipo de fútbol profesional en Colombia.", "temas": ["eCommerce", "Marca Deportiva", "Escala"], "fb": "/speakers/opt/juan-martinez.png"}, {"slug": "julian-lago", "nombre": "Julián Lago", "nombreLargo": "Julián Lago", "rol": "Senior Regional GM · Rappi", "cat": "Tech & Consumo", "emoji": "🛵", "bio": "Senior Regional General Manager de Rappi para el suroccidente de Colombia y Norte de Santander. +11 años en tecnología y consumo masivo liderando equipos y operaciones en LATAM. Ha trabajado con Honor, Marlboro, IQOS y Rappi. Ingeniero Industrial (ICESI) y MBA (Universidad de los Andes).", "temas": ["Tech", "Operaciones", "LATAM"], "fb": "/speakers/opt/julian-lago.jpg"}, {"slug": "diego-patarroyo", "nombre": "Diego Patarroyo", "nombreLargo": "Diego M. Patarroyo", "rol": "Co-fundador · D&A Grupo Empresarial", "cat": "Web & SEO", "emoji": "💻", "bio": "Ingeniero Electrónico y candidato a Magíster en Administración de Empresas (VIU). Co-fundador de D&A Grupo Empresarial y especialista en desarrollo web y SEO. Ha formado a miles de estudiantes en la creación de sitios web y plataformas de alta conversión.", "temas": ["SEO", "Desarrollo Web", "Formación"], "fb": "/speakers/opt/diego-patarroyo.jpg?v=6"}, {"slug": "andres-patarroyo", "nombre": "Andrés Patarroyo", "nombreLargo": "Andrés F. Patarroyo", "rol": "Co-fundador · D&A Grupo Empresarial", "cat": "Meta Ads & eCommerce", "emoji": "📈", "bio": "Ingeniero Civil y candidato a Magíster en Marketing Digital y Analítica Web (VIU). Co-fundador de D&A Grupo Empresarial y especialista en Meta Ads y E-commerce. Ha ayudado a miles de estudiantes a superar $900 millones en facturación acumulada.", "temas": ["Meta Ads", "eCommerce", "Analítica"], "fb": "/speakers/opt/andres-patarroyo.jpg?v=6"}, {"slug": "mateo-vera", "nombre": "Mateo Vera", "nombreLargo": "Mateo Vera", "rol": "CEO · FEM Probiotics", "cat": "eCommerce & Retención", "emoji": "💊", "bio": "Experto en eCommerce con +5 años construyendo y escalando marcas de consumo en el nicho de suplementos. CEO y fundador de FEM Probiotics, Focus Supplements (Colombia) y Opthera (EE.UU.). Especialista en marketing de retención: suscripciones, email marketing, CRM y fidelización para maximizar el LTV.", "temas": ["Retención", "Suscripciones", "LTV"], "fb": "/speakers/opt/mateo-vera.jpg"}, {"slug": "alejandro-vela", "nombre": "Alejandro Vela", "nombreLargo": "Alejandro Vela", "rol": "Emprendedor · +30.000 clientes", "cat": "Emprendimiento", "emoji": "🤝", "bio": "Emprendedor que ha construido una base de más de 30.000 clientes satisfechos. Llega a Labs Summit a compartir cómo se crece a ese volumen sin perder la calidad del servicio, y las lecciones prácticas que deja escalar un negocio de cara al cliente.", "temas": ["Emprendimiento", "Clientes", "Escala"], "fb": "/speakers/opt/alejandro-vela.jpg"}]</script>
 <script>
 (function () {
   'use strict';
@@ -736,7 +736,7 @@ footer a{color:rgba(201,174,255,.8)}
   function visibles() { return tarjetas.filter(function (c) { return !c.hidden; }).map(function (c) { return +c.querySelector('[data-abrir]').getAttribute('data-abrir'); }); }
   function pintar(i) {
     var d = datos[i];
-    $('perfil-foto').innerHTML = '<picture><source type="image/webp" srcset="/speakers/opt/' + d.slug + '-900.webp"><img class="perfil-img" src="' + d.fb + '" alt="' + esc(d.nombre) + '" width="900" height="1200" decoding="async"></picture>';
+    $('perfil-foto').innerHTML = '<picture><source type="image/webp" srcset="/speakers/opt/' + d.slug + '-900.webp?v=6"><img class="perfil-img" src="' + d.fb + '" alt="' + esc(d.nombre) + '" width="900" height="1200" decoding="async"></picture>';
     $('perfil-tag').innerHTML = '<span aria-hidden="true">' + d.emoji + '</span>' + esc(d.cat);
     $('perfil-nombre').textContent = d.nombreLargo || d.nombre;
     $('perfil-rol').textContent = d.rol;

diff --git a/index.html b/index.html
@@ -1444,7 +1444,7 @@ src="https://www.facebook.com/tr?id=481397476029941&ev=PageView&noscript=1"
       <div class="sp-card featured reveal" role="listitem">
         <div class="sp-inner">
           <div class="sp-front">
-            <picture><source type="image/webp" srcset="/speakers/opt/diego-patarroyo-480.webp 480w, /speakers/opt/diego-patarroyo-900.webp 900w" sizes="(max-width: 768px) 72vw, 320px"><img class="sp-bg" loading="lazy" decoding="async" src="/speakers/opt/diego-patarroyo.jpg" alt="Diego Patarroyo" width="480" height="640"></picture>
+            <picture><source type="image/webp" srcset="/speakers/opt/diego-patarroyo-480.webp?v=6 480w, /speakers/opt/diego-patarroyo-900.webp?v=6 900w" sizes="(max-width: 768px) 72vw, 320px"><img class="sp-bg" loading="lazy" decoding="async" src="/speakers/opt/diego-patarroyo.jpg?v=6" alt="Diego Patarroyo" width="480" height="640"></picture>
             <div class="sp-gradient"></div><div class="sp-tint"></div>
             <div class="sp-category">💻 Web &amp; SEO</div>
             <div class="sp-info">
@@ -1465,7 +1465,7 @@ src="https://www.facebook.com/tr?id=481397476029941&ev=PageView&noscript=1"
       <div class="sp-card featured reveal" role="listitem">
         <div class="sp-inner">
           <div class="sp-front">
-            <picture><source type="image/webp" srcset="/speakers/opt/andres-patarroyo-480.webp 480w, /speakers/opt/andres-patarroyo-900.webp 900w" sizes="(max-width: 768px) 72vw, 320px"><img class="sp-bg" loading="lazy" decoding="async" src="/speakers/opt/andres-patarroyo.jpg" alt="Andrés Patarroyo" width="480" height="640"></picture>
+            <picture><source type="image/webp" srcset="/speakers/opt/andres-patarroyo-480.webp?v=6 480w, /speakers/opt/andres-patarroyo-900.webp?v=6 900w" sizes="(max-width: 768px) 72vw, 320px"><img class="sp-bg" loading="lazy" decoding="async" src="/speakers/opt/andres-patarroyo.jpg?v=6" alt="Andrés Patarroyo" width="480" height="640"></picture>
             <div class="sp-gradient"></div><div class="sp-tint"></div>
             <div class="sp-category">📈 Meta Ads &amp; eCommerce</div>
             <div class="sp-info">
